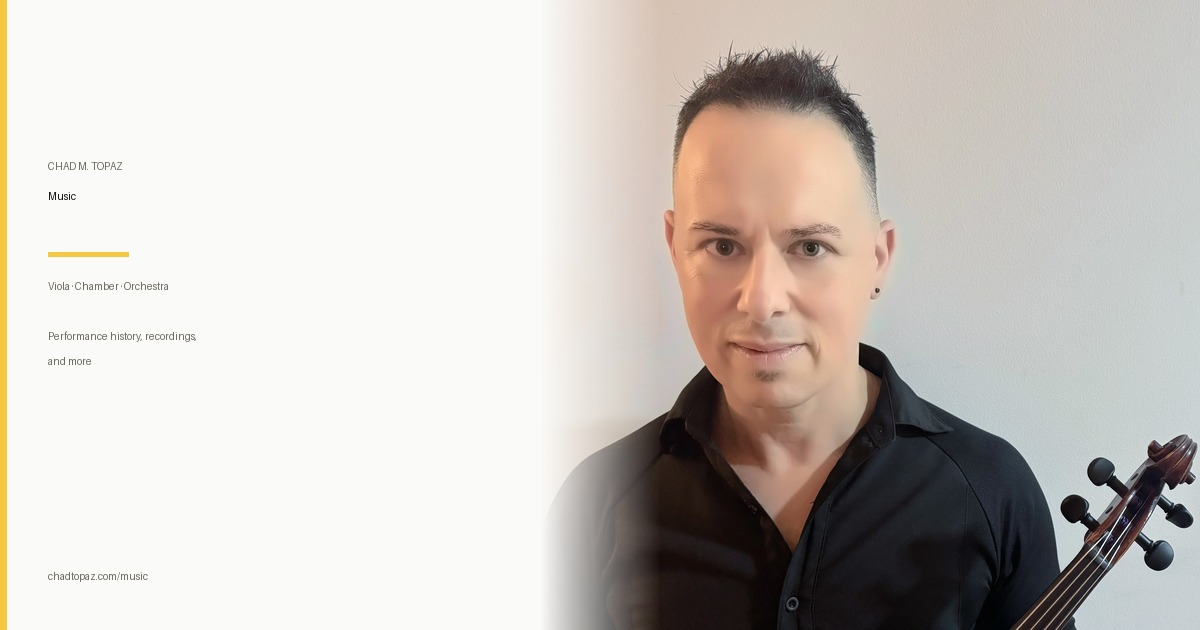
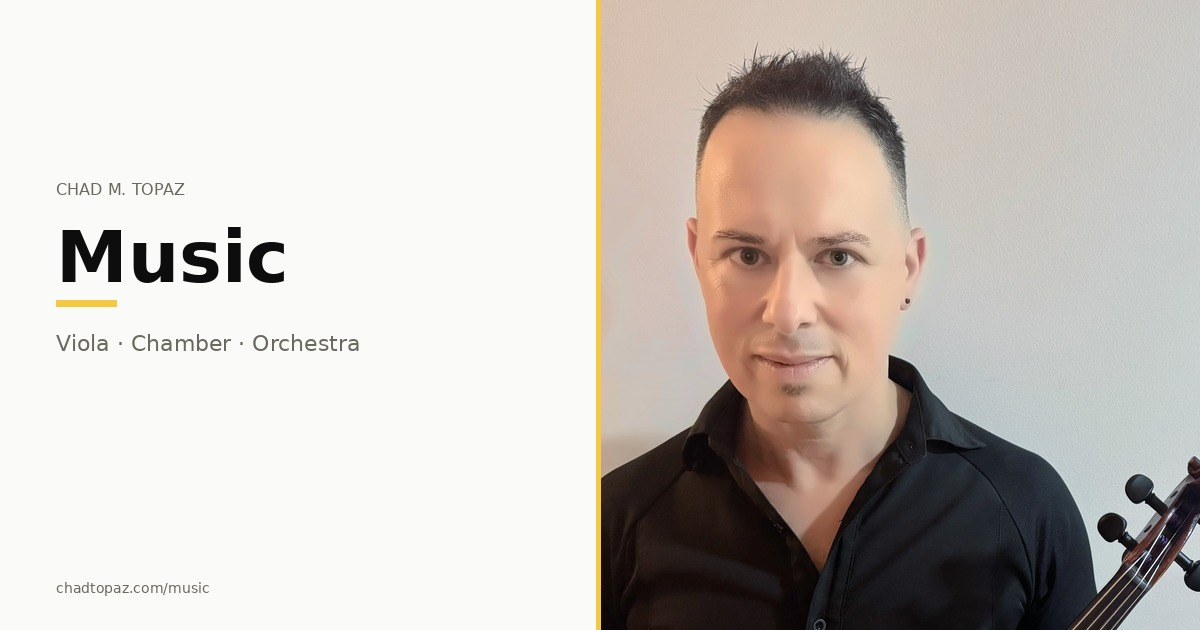
Add music to top-level nav, video thumbnail grid, OG card, Vivaldi concert, conductor fix

diff --git a/rebuttinator/privacy/index.html b/rebuttinator/privacy/index.html
@@ -28,14 +28,14 @@
   <a class="nav-name" href="../../index.html">Chad M. Topaz</a>
   <ul class="nav-links"><li class="nav-item"><a href="../../book/index.html">Book</a></li><li class="nav-item has-dropdown">
       <a href="#">About</a>
-      <div class="dropdown"><a href="../../about/index.html">Biography</a><a href="https://docs.google.com/document/d/1Bf2vmmtSaV-XOin092E-2IbTA_JIVmyOYWAx2m5WKbw/edit?usp=sharing" target="_blank">CV</a><a href="https://scholar.google.com/citations?user=YdVgYhoAAAAJ&hl=en" target="_blank">Google Scholar</a><a href="../../music/index.html">Music</a></div>
+      <div class="dropdown"><a href="../../about/index.html">Biography</a><a href="https://docs.google.com/document/d/1Bf2vmmtSaV-XOin092E-2IbTA_JIVmyOYWAx2m5WKbw/edit?usp=sharing" target="_blank">CV</a><a href="https://scholar.google.com/citations?user=YdVgYhoAAAAJ&hl=en" target="_blank">Google Scholar</a></div>
     </li><li class="nav-item has-dropdown">
       <a href="#">Research</a>
       <div class="dropdown"><a href="../../research/index.html">Publications</a><a href="../../research/presentations.html">Presentations</a><a href="../../tda/index.html">Getting Started with TDA</a><a href="../../rebuttals/index.html">Annotated Editions</a><a href="../../essays/index.html">Essays</a></div>
     </li><li class="nav-item"><a href="../../speaking/index.html">Speaking</a></li><li class="nav-item has-dropdown">
       <a href="#">Press</a>
       <div class="dropdown"><a href="../../press/index.html">Op-Eds</a><a href="../../press/coverage.html">Media Coverage</a></div>
-    </li><li class="nav-item has-dropdown">
+    </li><li class="nav-item"><a href="../../music/index.html">Music</a></li><li class="nav-item has-dropdown">
       <a href="#">Connect</a>
       <div class="dropdown"><a href="https://bsky.app/profile/chadtopaz.bsky.social" target="_blank">BlueSky</a><a href="https://www.linkedin.com/in/chadtopaz/" target="_blank">LinkedIn</a><a href="https://chadtopaz.medium.com/" target="_blank">Blog (Medium)</a></div>
     </li></ul>
@@ -43,7 +43,9 @@
 </nav>
 <div class="mobile-menu">
   <div class="mobile-menu-section">Book</div><a href="../../book/index.html">Unlocking Justice</a>
-  <div class="mobile-menu-section">About</div><a href="../../about/index.html">Biography</a><a href="https://docs.google.com/document/d/1Bf2vmmtSaV-XOin092E-2IbTA_JIVmyOYWAx2m5WKbw/edit?usp=sharing" target="_blank">CV</a><a href="https://scholar.google.com/citations?user=YdVgYhoAAAAJ&hl=en" target="_blank">Google Scholar</a><a href="../../music/index.html">Music</a>
+  <div class="mobile-menu-section">About</div><a href="../../about/index.html">Biography</a><a href="https://docs.google.com/document/d/1Bf2vmmtSaV-XOin092E-2IbTA_JIVmyOYWAx2m5WKbw/edit?usp=sharing" target="_blank">CV</a><a href="https://scholar.google.com/citations?user=YdVgYhoAAAAJ&hl=en" target="_blank">Google Scholar</a>
+  <div class="mobile-menu-section">Music</div>
+  <a href="../../music/index.html">Music</a>
   <div class="mobile-menu-section">Research</div><a href="../../research/index.html">Publications</a><a href="../../research/presentations.html">Presentations</a><a href="../../tda/index.html">Getting Started with TDA</a>
   <a href="../../rebuttals/index.html">Annotated Editions</a>
   <a href="../../essays/index.html">Essays</a>

diff --git a/rebuttinator/index.html b/rebuttinator/index.html
@@ -272,14 +272,14 @@
   <a class="nav-name" href="../index.html">Chad M. Topaz</a>
   <ul class="nav-links"><li class="nav-item"><a href="../book/index.html">Book</a></li><li class="nav-item has-dropdown">
       <a href="#">About</a>
-      <div class="dropdown"><a href="../about/index.html">Biography</a><a href="https://docs.google.com/document/d/1Bf2vmmtSaV-XOin092E-2IbTA_JIVmyOYWAx2m5WKbw/edit?usp=sharing" target="_blank">CV</a><a href="https://scholar.google.com/citations?user=YdVgYhoAAAAJ&hl=en" target="_blank">Google Scholar</a><a href="../music/index.html">Music</a></div>
+      <div class="dropdown"><a href="../about/index.html">Biography</a><a href="https://docs.google.com/document/d/1Bf2vmmtSaV-XOin092E-2IbTA_JIVmyOYWAx2m5WKbw/edit?usp=sharing" target="_blank">CV</a><a href="https://scholar.google.com/citations?user=YdVgYhoAAAAJ&hl=en" target="_blank">Google Scholar</a></div>
     </li><li class="nav-item has-dropdown">
       <a href="#">Research</a>
       <div class="dropdown"><a href="../research/index.html">Publications</a><a href="../research/presentations.html">Presentations</a><a href="../tda/index.html">Getting Started with TDA</a><a href="../rebuttals/index.html">Annotated Editions</a><a href="../essays/index.html">Essays</a></div>
     </li><li class="nav-item"><a href="../speaking/index.html">Speaking</a></li><li class="nav-item has-dropdown">
       <a href="#">Press</a>
       <div class="dropdown"><a href="../press/index.html">Op-Eds</a><a href="../press/coverage.html">Media Coverage</a></div>
-    </li><li class="nav-item has-dropdown">
+    </li><li class="nav-item"><a href="../music/index.html">Music</a></li><li class="nav-item has-dropdown">
       <a href="#">Connect</a>
       <div class="dropdown"><a href="https://bsky.app/profile/chadtopaz.bsky.social" target="_blank">BlueSky</a><a href="https://www.linkedin.com/in/chadtopaz/" target="_blank">LinkedIn</a><a href="https://chadtopaz.medium.com/" target="_blank">Blog (Medium)</a></div>
     </li></ul>
@@ -287,7 +287,9 @@
 </nav>
 <div class="mobile-menu">
   <div class="mobile-menu-section">Book</div><a href="../book/index.html">Unlocking Justice</a>
-  <div class="mobile-menu-section">About</div><a href="../about/index.html">Biography</a><a href="https://docs.google.com/document/d/1Bf2vmmtSaV-XOin092E-2IbTA_JIVmyOYWAx2m5WKbw/edit?usp=sharing" target="_blank">CV</a><a href="https://scholar.google.com/citations?user=YdVgYhoAAAAJ&hl=en" target="_blank">Google Scholar</a><a href="../music/index.html">Music</a>
+  <div class="mobile-menu-section">About</div><a href="../about/index.html">Biography</a><a href="https://docs.google.com/document/d/1Bf2vmmtSaV-XOin092E-2IbTA_JIVmyOYWAx2m5WKbw/edit?usp=sharing" target="_blank">CV</a><a href="https://scholar.google.com/citations?user=YdVgYhoAAAAJ&hl=en" target="_blank">Google Scholar</a>
+  <div class="mobile-menu-section">Music</div>
+  <a href="../music/index.html">Music</a>
   <div class="mobile-menu-section">Research</div><a href="../research/index.html">Publications</a><a href="../research/presentations.html">Presentations</a><a href="../tda/index.html">Getting Started with TDA</a>
   <a href="../rebuttals/index.html">Annotated Editions</a>
   <a href="../essays/index.html">Essays</a>

diff --git a/music/index.html b/music/index.html
@@ -32,14 +32,14 @@
   <a class="nav-name" href="../index.html">Chad M. Topaz</a>
   <ul class="nav-links"><li class="nav-item"><a href="../book/index.html">Book</a></li><li class="nav-item has-dropdown">
       <a href="#" class="active">About</a>
-      <div class="dropdown"><a href="../about/index.html">Biography</a><a href="https://docs.google.com/document/d/1Bf2vmmtSaV-XOin092E-2IbTA_JIVmyOYWAx2m5WKbw/edit?usp=sharing" target="_blank">CV</a><a href="https://scholar.google.com/citations?user=YdVgYhoAAAAJ&hl=en" target="_blank">Google Scholar</a><a href="../music/index.html">Music</a></div>
+      <div class="dropdown"><a href="../about/index.html">Biography</a><a href="https://docs.google.com/document/d/1Bf2vmmtSaV-XOin092E-2IbTA_JIVmyOYWAx2m5WKbw/edit?usp=sharing" target="_blank">CV</a><a href="https://scholar.google.com/citations?user=YdVgYhoAAAAJ&hl=en" target="_blank">Google Scholar</a></div>
     </li><li class="nav-item has-dropdown">
       <a href="#">Research</a>
       <div class="dropdown"><a href="../research/index.html">Publications</a><a href="../research/presentations.html">Presentations</a><a href="../tda/index.html">Getting Started with TDA</a><a href="../rebuttals/index.html">Annotated Editions</a><a href="../essays/index.html">Essays</a></div>
     </li><li class="nav-item"><a href="../speaking/index.html">Speaking</a></li><li class="nav-item has-dropdown">
       <a href="#">Press</a>
       <div class="dropdown"><a href="../press/index.html">Op-Eds</a><a href="../press/coverage.html">Media Coverage</a></div>
-    </li><li class="nav-item has-dropdown">
+    </li><li class="nav-item"><a href="../music/index.html">Music</a></li><li class="nav-item has-dropdown">
       <a href="#">Connect</a>
       <div class="dropdown"><a href="https://bsky.app/profile/chadtopaz.bsky.social" target="_blank">BlueSky</a><a href="https://www.linkedin.com/in/chadtopaz/" target="_blank">LinkedIn</a><a href="https://chadtopaz.medium.com/" target="_blank">Blog (Medium)</a></div>
     </li></ul>
@@ -54,6 +54,7 @@
   <a href="../about/index.html">Biography</a>
   <a href="https://docs.google.com/document/d/1Bf2vmmtSaV-XOin092E-2IbTA_JIVmyOYWAx2m5WKbw/edit?usp=sharing" target="_blank">CV</a>
   <a href="https://scholar.google.com/citations?user=YdVgYhoAAAAJ&hl=en" target="_blank">Google Scholar</a>
+  <div class="mobile-menu-section">Music</div>
   <a href="../music/index.html">Music</a>
   <div class="mobile-menu-section">Research</div>
   <a href="../research/index.html">Publications</a>
@@ -121,7 +122,7 @@
           <img src="https://img.youtube.com/vi/Shuq0OmyY-U/hqdefault.jpg" alt="Grofé Cloudburst" loading="lazy">
           <div class="clip-play"></div>
         </div>
-        <div class="clip-caption">Grofé, Cloudburst from Grand Canyon Suite (substitute principal violist, Berkshire Symphony)</div>
+        <div class="clip-caption">Grofé, Cloudburst from Grand Canyon Suite (principal violist, Berkshire Symphony)</div>
       </div>
       <div class="clip-card" data-video="HS0vhJ0fGw4" data-start="627">
         <div class="clip-thumb">

diff --git a/about/index.html b/about/index.html
@@ -58,14 +58,14 @@
   <a class="nav-name" href="../index.html">Chad M. Topaz</a>
   <ul class="nav-links"><li class="nav-item"><a href="../book/index.html">Book</a></li><li class="nav-item has-dropdown">
       <a href="#" class="active">About</a>
-      <div class="dropdown"><a href="../about/index.html">Biography</a><a href="https://docs.google.com/document/d/1Bf2vmmtSaV-XOin092E-2IbTA_JIVmyOYWAx2m5WKbw/edit?usp=sharing" target="_blank">CV</a><a href="https://scholar.google.com/citations?user=YdVgYhoAAAAJ&hl=en" target="_blank">Google Scholar</a><a href="../music/index.html">Music</a></div>
+      <div class="dropdown"><a href="../about/index.html">Biography</a><a href="https://docs.google.com/document/d/1Bf2vmmtSaV-XOin092E-2IbTA_JIVmyOYWAx2m5WKbw/edit?usp=sharing" target="_blank">CV</a><a href="https://scholar.google.com/citations?user=YdVgYhoAAAAJ&hl=en" target="_blank">Google Scholar</a></div>
     </li><li class="nav-item has-dropdown">
       <a href="#">Research</a>
       <div class="dropdown"><a href="../research/index.html">Publications</a><a href="../research/presentations.html">Presentations</a><a href="../tda/index.html">Getting Started with TDA</a><a href="../rebuttals/index.html">Annotated Editions</a><a href="../essays/index.html">Essays</a></div>
     </li><li class="nav-item"><a href="../speaking/index.html">Speaking</a></li><li class="nav-item has-dropdown">
       <a href="#">Press</a>
       <div class="dropdown"><a href="../press/index.html">Op-Eds</a><a href="../press/coverage.html">Media Coverage</a></div>
-    </li><li class="nav-item has-dropdown">
+    </li><li class="nav-item"><a href="../music/index.html">Music</a></li><li class="nav-item has-dropdown">
       <a href="#">Connect</a>
       <div class="dropdown"><a href="https://bsky.app/profile/chadtopaz.bsky.social" target="_blank">BlueSky</a><a href="https://www.linkedin.com/in/chadtopaz/" target="_blank">LinkedIn</a><a href="https://chadtopaz.medium.com/" target="_blank">Blog (Medium)</a></div>
     </li></ul>
@@ -80,6 +80,7 @@
   <a href="../about/index.html">Biography</a>
   <a href="https://docs.google.com/document/d/1Bf2vmmtSaV-XOin092E-2IbTA_JIVmyOYWAx2m5WKbw/edit?usp=sharing" target="_blank">CV</a>
   <a href="https://scholar.google.com/citations?user=YdVgYhoAAAAJ&hl=en" target="_blank">Google Scholar</a>
+  <div class="mobile-menu-section">Music</div>
   <a href="../music/index.html">Music</a>
   <div class="mobile-menu-section">Research</div>
   <a href="../research/index.html">Publications</a>

diff --git a/book/index.html b/book/index.html
@@ -48,14 +48,14 @@
   <a class="nav-name" href="../index.html">Chad M. Topaz</a>
   <ul class="nav-links"><li class="nav-item"><a href="../book/index.html" class="active">Book</a></li><li class="nav-item has-dropdown">
       <a href="#">About</a>
-      <div class="dropdown"><a href="../about/index.html">Biography</a><a href="https://docs.google.com/document/d/1Bf2vmmtSaV-XOin092E-2IbTA_JIVmyOYWAx2m5WKbw/edit?usp=sharing" target="_blank">CV</a><a href="https://scholar.google.com/citations?user=YdVgYhoAAAAJ&hl=en" target="_blank">Google Scholar</a><a href="../music/index.html">Music</a></div>
+      <div class="dropdown"><a href="../about/index.html">Biography</a><a href="https://docs.google.com/document/d/1Bf2vmmtSaV-XOin092E-2IbTA_JIVmyOYWAx2m5WKbw/edit?usp=sharing" target="_blank">CV</a><a href="https://scholar.google.com/citations?user=YdVgYhoAAAAJ&hl=en" target="_blank">Google Scholar</a></div>
     </li><li class="nav-item has-dropdown">
       <a href="#">Research</a>
       <div class="dropdown"><a href="../research/index.html">Publications</a><a href="../research/presentations.html">Presentations</a><a href="../tda/index.html">Getting Started with TDA</a><a href="../rebuttals/index.html">Annotated Editions</a><a href="../essays/index.html">Essays</a></div>
     </li><li class="nav-item"><a href="../speaking/index.html">Speaking</a></li><li class="nav-item has-dropdown">
       <a href="#">Press</a>
       <div class="dropdown"><a href="../press/index.html">Op-Eds</a><a href="../press/coverage.html">Media Coverage</a></div>
-    </li><li class="nav-item has-dropdown">
+    </li><li class="nav-item"><a href="../music/index.html">Music</a></li><li class="nav-item has-dropdown">
       <a href="#">Connect</a>
       <div class="dropdown"><a href="https://bsky.app/profile/chadtopaz.bsky.social" target="_blank">BlueSky</a><a href="https://www.linkedin.com/in/chadtopaz/" target="_blank">LinkedIn</a><a href="https://chadtopaz.medium.com/" target="_blank">Blog (Medium)</a></div>
     </li></ul>
@@ -70,6 +70,7 @@
   <a href="../about/index.html">Biography</a>
   <a href="https://docs.google.com/document/d/1Bf2vmmtSaV-XOin092E-2IbTA_JIVmyOYWAx2m5WKbw/edit?usp=sharing" target="_blank">CV</a>
   <a href="https://scholar.google.com/citations?user=YdVgYhoAAAAJ&hl=en" target="_blank">Google Scholar</a>
+  <div class="mobile-menu-section">Music</div>
   <a href="../music/index.html">Music</a>
   <div class="mobile-menu-section">Research</div>
   <a href="../research/index.html">Publications</a>

diff --git a/essays/index.html b/essays/index.html
@@ -32,14 +32,14 @@
   <a class="nav-name" href="../index.html">Chad M. Topaz</a>
   <ul class="nav-links"><li class="nav-item"><a href="../book/index.html">Book</a></li><li class="nav-item has-dropdown">
       <a href="#">About</a>
-      <div class="dropdown"><a href="../about/index.html">Biography</a><a href="https://docs.google.com/document/d/1Bf2vmmtSaV-XOin092E-2IbTA_JIVmyOYWAx2m5WKbw/edit?usp=sharing" target="_blank">CV</a><a href="https://scholar.google.com/citations?user=YdVgYhoAAAAJ&hl=en" target="_blank">Google Scholar</a><a href="../music/index.html">Music</a></div>
+      <div class="dropdown"><a href="../about/index.html">Biography</a><a href="https://docs.google.com/document/d/1Bf2vmmtSaV-XOin092E-2IbTA_JIVmyOYWAx2m5WKbw/edit?usp=sharing" target="_blank">CV</a><a href="https://scholar.google.com/citations?user=YdVgYhoAAAAJ&hl=en" target="_blank">Google Scholar</a></div>
     </li><li class="nav-item has-dropdown">
       <a href="#">Research</a>
       <div class="dropdown"><a href="../research/index.html">Publications</a><a href="../research/presentations.html">Presentations</a><a href="../tda/index.html">Getting Started with TDA</a><a href="../rebuttals/index.html">Annotated Editions</a><a href="../essays/index.html">Essays</a></div>
     </li><li class="nav-item"><a href="../speaking/index.html">Speaking</a></li><li class="nav-item has-dropdown">
       <a href="#" class="active">Press</a>
       <div class="dropdown"><a href="../press/index.html">Op-Eds</a><a href="../press/coverage.html">Media Coverage</a></div>
-    </li><li class="nav-item has-dropdown">
+    </li><li class="nav-item"><a href="../music/index.html">Music</a></li><li class="nav-item has-dropdown">
       <a href="#">Connect</a>
       <div class="dropdown"><a href="https://bsky.app/profile/chadtopaz.bsky.social" target="_blank">BlueSky</a><a href="https://www.linkedin.com/in/chadtopaz/" target="_blank">LinkedIn</a><a href="https://chadtopaz.medium.com/" target="_blank">Blog (Medium)</a></div>
     </li></ul>
@@ -54,6 +54,7 @@
   <a href="../about/index.html">Biography</a>
   <a href="https://docs.google.com/document/d/1Bf2vmmtSaV-XOin092E-2IbTA_JIVmyOYWAx2m5WKbw/edit?usp=sharing" target="_blank">CV</a>
   <a href="https://scholar.google.com/citations?user=YdVgYhoAAAAJ&hl=en" target="_blank">Google Scholar</a>
+  <div class="mobile-menu-section">Music</div>
   <a href="../music/index.html">Music</a>
   <div class="mobile-menu-section">Research</div>
   <a href="../research/index.html">Publications</a>

diff --git a/rebuttals/index.html b/rebuttals/index.html
@@ -32,14 +32,14 @@
   <a class="nav-name" href="../index.html">Chad M. Topaz</a>
   <ul class="nav-links"><li class="nav-item"><a href="../book/index.html">Book</a></li><li class="nav-item has-dropdown">
       <a href="#">About</a>
-      <div class="dropdown"><a href="../about/index.html">Biography</a><a href="https://docs.google.com/document/d/1Bf2vmmtSaV-XOin092E-2IbTA_JIVmyOYWAx2m5WKbw/edit?usp=sharing" target="_blank">CV</a><a href="https://scholar.google.com/citations?user=YdVgYhoAAAAJ&hl=en" target="_blank">Google Scholar</a><a href="../music/index.html">Music</a></div>
+      <div class="dropdown"><a href="../about/index.html">Biography</a><a href="https://docs.google.com/document/d/1Bf2vmmtSaV-XOin092E-2IbTA_JIVmyOYWAx2m5WKbw/edit?usp=sharing" target="_blank">CV</a><a href="https://scholar.google.com/citations?user=YdVgYhoAAAAJ&hl=en" target="_blank">Google Scholar</a></div>
     </li><li class="nav-item has-dropdown">
       <a href="#" class="active">Research</a>
       <div class="dropdown"><a href="../research/index.html">Publications</a><a href="../research/presentations.html">Presentations</a><a href="../tda/index.html">Getting Started with TDA</a><a href="../rebuttals/index.html">Annotated Editions</a><a href="../essays/index.html">Essays</a></div>
     </li><li class="nav-item"><a href="../speaking/index.html">Speaking</a></li><li class="nav-item has-dropdown">
       <a href="#">Press</a>
       <div class="dropdown"><a href="../press/index.html">Op-Eds</a><a href="../press/coverage.html">Media Coverage</a></div>
-    </li><li class="nav-item has-dropdown">
+    </li><li class="nav-item"><a href="../music/index.html">Music</a></li><li class="nav-item has-dropdown">
       <a href="#">Connect</a>
       <div class="dropdown"><a href="https://bsky.app/profile/chadtopaz.bsky.social" target="_blank">BlueSky</a><a href="https://www.linkedin.com/in/chadtopaz/" target="_blank">LinkedIn</a><a href="https://chadtopaz.medium.com/" target="_blank">Blog (Medium)</a></div>
     </li></ul>
@@ -54,6 +54,7 @@
   <a href="../about/index.html">Biography</a>
   <a href="https://docs.google.com/document/d/1Bf2vmmtSaV-XOin092E-2IbTA_JIVmyOYWAx2m5WKbw/edit?usp=sharing" target="_blank">CV</a>
   <a href="https://scholar.google.com/citations?user=YdVgYhoAAAAJ&hl=en" target="_blank">Google Scholar</a>
+  <div class="mobile-menu-section">Music</div>
   <a href="../music/index.html">Music</a>
   <div class="mobile-menu-section">Research</div>
   <a href="../research/index.html">Publications</a>

diff --git a/tda/index.html b/tda/index.html
@@ -32,14 +32,14 @@
   <a class="nav-name" href="../index.html">Chad M. Topaz</a>
   <ul class="nav-links"><li class="nav-item"><a href="../book/index.html">Book</a></li><li class="nav-item has-dropdown">
       <a href="#">About</a>
-      <div class="dropdown"><a href="../about/index.html">Biography</a><a href="https://docs.google.com/document/d/1Bf2vmmtSaV-XOin092E-2IbTA_JIVmyOYWAx2m5WKbw/edit?usp=sharing" target="_blank">CV</a><a href="https://scholar.google.com/citations?user=YdVgYhoAAAAJ&hl=en" target="_blank">Google Scholar</a><a href="../music/index.html">Music</a></div>
+      <div class="dropdown"><a href="../about/index.html">Biography</a><a href="https://docs.google.com/document/d/1Bf2vmmtSaV-XOin092E-2IbTA_JIVmyOYWAx2m5WKbw/edit?usp=sharing" target="_blank">CV</a><a href="https://scholar.google.com/citations?user=YdVgYhoAAAAJ&hl=en" target="_blank">Google Scholar</a></div>
     </li><li class="nav-item has-dropdown">
       <a href="#" class="active">Research</a>
       <div class="dropdown"><a href="../research/index.html">Publications</a><a href="../research/presentations.html">Presentations</a><a href="index.html">Getting Started with TDA</a><a href="../rebuttals/index.html">Annotated Editions</a><a href="../essays/index.html">Essays</a></div>
     </li><li class="nav-item"><a href="../speaking/index.html">Speaking</a></li><li class="nav-item has-dropdown">
       <a href="#">Press</a>
       <div class="dropdown"><a href="../press/index.html">Op-Eds</a><a href="../press/coverage.html">Media Coverage</a></div>
-    </li><li class="nav-item has-dropdown">
+    </li><li class="nav-item"><a href="../music/index.html">Music</a></li><li class="nav-item has-dropdown">
       <a href="#">Connect</a>
       <div class="dropdown"><a href="https://bsky.app/profile/chadtopaz.bsky.social" target="_blank">BlueSky</a><a href="https://www.linkedin.com/in/chadtopaz/" target="_blank">LinkedIn</a><a href="https://chadtopaz.medium.com/" target="_blank">Blog (Medium)</a></div>
     </li></ul>
@@ -54,6 +54,7 @@
   <a href="../about/index.html">Biography</a>
   <a href="https://docs.google.com/document/d/1Bf2vmmtSaV-XOin092E-2IbTA_JIVmyOYWAx2m5WKbw/edit?usp=sharing" target="_blank">CV</a>
   <a href="https://scholar.google.com/citations?user=YdVgYhoAAAAJ&hl=en" target="_blank">Google Scholar</a>
+  <div class="mobile-menu-section">Music</div>
   <a href="../music/index.html">Music</a>
   <div class="mobile-menu-section">Research</div>
   <a href="../research/index.html">Publications</a>

diff --git a/press/coverage.html b/press/coverage.html
@@ -32,14 +32,14 @@
   <a class="nav-name" href="../index.html">Chad M. Topaz</a>
   <ul class="nav-links"><li class="nav-item"><a href="../book/index.html">Book</a></li><li class="nav-item has-dropdown">
       <a href="#">About</a>
-      <div class="dropdown"><a href="../about/index.html">Biography</a><a href="https://docs.google.com/document/d/1Bf2vmmtSaV-XOin092E-2IbTA_JIVmyOYWAx2m5WKbw/edit?usp=sharing" target="_blank">CV</a><a href="https://scholar.google.com/citations?user=YdVgYhoAAAAJ&hl=en" target="_blank">Google Scholar</a><a href="../music/index.html">Music</a></div>
+      <div class="dropdown"><a href="../about/index.html">Biography</a><a href="https://docs.google.com/document/d/1Bf2vmmtSaV-XOin092E-2IbTA_JIVmyOYWAx2m5WKbw/edit?usp=sharing" target="_blank">CV</a><a href="https://scholar.google.com/citations?user=YdVgYhoAAAAJ&hl=en" target="_blank">Google Scholar</a></div>
     </li><li class="nav-item has-dropdown">
       <a href="#">Research</a>
       <div class="dropdown"><a href="../research/index.html">Publications</a><a href="../research/presentations.html">Presentations</a><a href="../tda/index.html">Getting Started with TDA</a><a href="../rebuttals/index.html">Annotated Editions</a><a href="../essays/index.html">Essays</a></div>
     </li><li class="nav-item"><a href="../speaking/index.html">Speaking</a></li><li class="nav-item has-dropdown">
       <a href="#" class="active">Press</a>
       <div class="dropdown"><a href="../press/index.html">Op-Eds</a><a href="coverage.html">Media Coverage</a></div>
-    </li><li class="nav-item has-dropdown">
+    </li><li class="nav-item"><a href="../music/index.html">Music</a></li><li class="nav-item has-dropdown">
       <a href="#">Connect</a>
       <div class="dropdown"><a href="https://bsky.app/profile/chadtopaz.bsky.social" target="_blank">BlueSky</a><a href="https://www.linkedin.com/in/chadtopaz/" target="_blank">LinkedIn</a><a href="https://chadtopaz.medium.com/" target="_blank">Blog (Medium)</a></div>
     </li></ul>
@@ -54,6 +54,7 @@
   <a href="../about/index.html">Biography</a>
   <a href="https://docs.google.com/document/d/1Bf2vmmtSaV-XOin092E-2IbTA_JIVmyOYWAx2m5WKbw/edit?usp=sharing" target="_blank">CV</a>
   <a href="https://scholar.google.com/citations?user=YdVgYhoAAAAJ&hl=en" target="_blank">Google Scholar</a>
+  <div class="mobile-menu-section">Music</div>
   <a href="../music/index.html">Music</a>
   <div class="mobile-menu-section">Research</div>
   <a href="../research/index.html">Publications</a>

diff --git a/press/index.html b/press/index.html
@@ -32,14 +32,14 @@
   <a class="nav-name" href="../index.html">Chad M. Topaz</a>
   <ul class="nav-links"><li class="nav-item"><a href="../book/index.html">Book</a></li><li class="nav-item has-dropdown">
       <a href="#">About</a>
-      <div class="dropdown"><a href="../about/index.html">Biography</a><a href="https://docs.google.com/document/d/1Bf2vmmtSaV-XOin092E-2IbTA_JIVmyOYWAx2m5WKbw/edit?usp=sharing" target="_blank">CV</a><a href="https://scholar.google.com/citations?user=YdVgYhoAAAAJ&hl=en" target="_blank">Google Scholar</a><a href="../music/index.html">Music</a></div>
+      <div class="dropdown"><a href="../about/index.html">Biography</a><a href="https://docs.google.com/document/d/1Bf2vmmtSaV-XOin092E-2IbTA_JIVmyOYWAx2m5WKbw/edit?usp=sharing" target="_blank">CV</a><a href="https://scholar.google.com/citations?user=YdVgYhoAAAAJ&hl=en" target="_blank">Google Scholar</a></div>
     </li><li class="nav-item has-dropdown">
       <a href="#">Research</a>
       <div class="dropdown"><a href="../research/index.html">Publications</a><a href="../research/presentations.html">Presentations</a><a href="../tda/index.html">Getting Started with TDA</a><a href="../rebuttals/index.html">Annotated Editions</a><a href="../essays/index.html">Essays</a></div>
     </li><li class="nav-item"><a href="../speaking/index.html">Speaking</a></li><li class="nav-item has-dropdown">
       <a href="#" class="active">Press</a>
       <div class="dropdown"><a href="../press/index.html">Op-Eds</a><a href="coverage.html">Media Coverage</a></div>
-    </li><li class="nav-item has-dropdown">
+    </li><li class="nav-item"><a href="../music/index.html">Music</a></li><li class="nav-item has-dropdown">
       <a href="#">Connect</a>
       <div class="dropdown"><a href="https://bsky.app/profile/chadtopaz.bsky.social" target="_blank">BlueSky</a><a href="https://www.linkedin.com/in/chadtopaz/" target="_blank">LinkedIn</a><a href="https://chadtopaz.medium.com/" target="_blank">Blog (Medium)</a></div>
     </li></ul>
@@ -54,6 +54,7 @@
   <a href="../about/index.html">Biography</a>
   <a href="https://docs.google.com/document/d/1Bf2vmmtSaV-XOin092E-2IbTA_JIVmyOYWAx2m5WKbw/edit?usp=sharing" target="_blank">CV</a>
   <a href="https://scholar.google.com/citations?user=YdVgYhoAAAAJ&hl=en" target="_blank">Google Scholar</a>
+  <div class="mobile-menu-section">Music</div>
   <a href="../music/index.html">Music</a>
   <div class="mobile-menu-section">Research</div>
   <a href="../research/index.html">Publications</a>

diff --git a/speaking/index.html b/speaking/index.html
@@ -32,14 +32,14 @@
   <a class="nav-name" href="../index.html">Chad M. Topaz</a>
   <ul class="nav-links"><li class="nav-item"><a href="../book/index.html">Book</a></li><li class="nav-item has-dropdown">
       <a href="#">About</a>
-      <div class="dropdown"><a href="../about/index.html">Biography</a><a href="https://docs.google.com/document/d/1Bf2vmmtSaV-XOin092E-2IbTA_JIVmyOYWAx2m5WKbw/edit?usp=sharing" target="_blank">CV</a><a href="https://scholar.google.com/citations?user=YdVgYhoAAAAJ&hl=en" target="_blank">Google Scholar</a><a href="../music/index.html">Music</a></div>
+      <div class="dropdown"><a href="../about/index.html">Biography</a><a href="https://docs.google.com/document/d/1Bf2vmmtSaV-XOin092E-2IbTA_JIVmyOYWAx2m5WKbw/edit?usp=sharing" target="_blank">CV</a><a href="https://scholar.google.com/citations?user=YdVgYhoAAAAJ&hl=en" target="_blank">Google Scholar</a></div>
     </li><li class="nav-item has-dropdown">
       <a href="#">Research</a>
       <div class="dropdown"><a href="../research/index.html">Publications</a><a href="../research/presentations.html">Presentations</a><a href="../tda/index.html">Getting Started with TDA</a><a href="../rebuttals/index.html">Annotated Editions</a><a href="../essays/index.html">Essays</a></div>
     </li><li class="nav-item"><a href="index.html" class="active">Speaking</a></li><li class="nav-item has-dropdown">
       <a href="#">Press</a>
       <div class="dropdown"><a href="../press/index.html">Op-Eds</a><a href="../press/coverage.html">Media Coverage</a></div>
-    </li><li class="nav-item has-dropdown">
+    </li><li class="nav-item"><a href="../music/index.html">Music</a></li><li class="nav-item has-dropdown">
       <a href="#">Connect</a>
       <div class="dropdown"><a href="https://bsky.app/profile/chadtopaz.bsky.social" target="_blank">BlueSky</a><a href="https://www.linkedin.com/in/chadtopaz/" target="_blank">LinkedIn</a><a href="https://chadtopaz.medium.com/" target="_blank">Blog (Medium)</a></div>
     </li></ul>
@@ -54,6 +54,7 @@
   <a href="../about/index.html">Biography</a>
   <a href="https://docs.google.com/document/d/1Bf2vmmtSaV-XOin092E-2IbTA_JIVmyOYWAx2m5WKbw/edit?usp=sharing" target="_blank">CV</a>
   <a href="https://scholar.google.com/citations?user=YdVgYhoAAAAJ&hl=en" target="_blank">Google Scholar</a>
+  <div class="mobile-menu-section">Music</div>
   <a href="../music/index.html">Music</a>
   <div class="mobile-menu-section">Research</div>
   <a href="../research/index.html">Publications</a>

diff --git a/essays/slmath-director-search.html b/essays/slmath-director-search.html
@@ -94,14 +94,14 @@
   <a class="nav-name" href="../index.html">Chad M. Topaz</a>
   <ul class="nav-links"><li class="nav-item"><a href="../book/index.html">Book</a></li><li class="nav-item has-dropdown">
       <a href="#">About</a>
-      <div class="dropdown"><a href="../about/index.html">Biography</a><a href="https://docs.google.com/document/d/1Bf2vmmtSaV-XOin092E-2IbTA_JIVmyOYWAx2m5WKbw/edit?usp=sharing" target="_blank">CV</a><a href="https://scholar.google.com/citations?user=YdVgYhoAAAAJ&hl=en" target="_blank">Google Scholar</a><a href="../music/index.html">Music</a></div>
+      <div class="dropdown"><a href="../about/index.html">Biography</a><a href="https://docs.google.com/document/d/1Bf2vmmtSaV-XOin092E-2IbTA_JIVmyOYWAx2m5WKbw/edit?usp=sharing" target="_blank">CV</a><a href="https://scholar.google.com/citations?user=YdVgYhoAAAAJ&hl=en" target="_blank">Google Scholar</a></div>
     </li><li class="nav-item has-dropdown">
       <a href="#">Research</a>
       <div class="dropdown"><a href="../research/index.html">Publications</a><a href="../research/presentations.html">Presentations</a><a href="../tda/index.html">Getting Started with TDA</a><a href="../rebuttals/index.html">Annotated Editions</a><a href="../essays/index.html">Essays</a></div>
     </li><li class="nav-item"><a href="../speaking/index.html">Speaking</a></li><li class="nav-item has-dropdown">
       <a href="#">Press</a>
       <div class="dropdown"><a href="../press/index.html">Op-Eds</a><a href="../press/coverage.html">Media Coverage</a></div>
-    </li><li class="nav-item has-dropdown">
+    </li><li class="nav-item"><a href="../music/index.html">Music</a></li><li class="nav-item has-dropdown">
       <a href="#">Connect</a>
       <div class="dropdown"><a href="https://bsky.app/profile/chadtopaz.bsky.social" target="_blank">BlueSky</a><a href="https://www.linkedin.com/in/chadtopaz/" target="_blank">LinkedIn</a><a href="https://chadtopaz.medium.com/" target="_blank">Blog (Medium)</a></div>
     </li></ul>
@@ -116,6 +116,7 @@
   <a href="../about/index.html">Biography</a>
   <a href="https://docs.google.com/document/d/1Bf2vmmtSaV-XOin092E-2IbTA_JIVmyOYWAx2m5WKbw/edit?usp=sharing" target="_blank">CV</a>
   <a href="https://scholar.google.com/citations?user=YdVgYhoAAAAJ&hl=en" target="_blank">Google Scholar</a>
+  <div class="mobile-menu-section">Music</div>
   <a href="../music/index.html">Music</a>
   <div class="mobile-menu-section">Research</div>
   <a href="../research/index.html">Publications</a>
